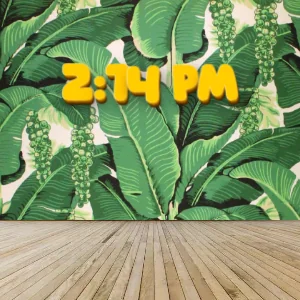
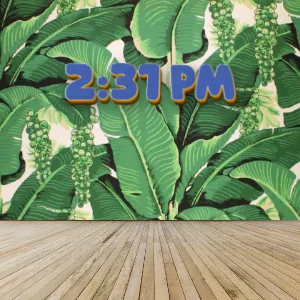
x

Changed region(s): [[0.18, 0.18, 0.81, 0.36]]

diff --git a/src/pages/2026/26-08/26-08-07/Clock.module.css b/src/pages/2026/26-08/26-08-07/Clock.module.css
@@ -43,7 +43,7 @@
   font-size: 15vmin;
   font-weight: 900;
   line-height: 0.9;
-  color: #ffc700; /* Main front face color: A richer, less yellow gold */
+  color: #4862aa; /* Main front face color: A richer, less yellow gold */
   /* 
    * Deep 3D Carved & Extruded Bevel Effect:
    * 1. Top light highlights (-0.02em -0.02em) for sharp chiseled edges.
